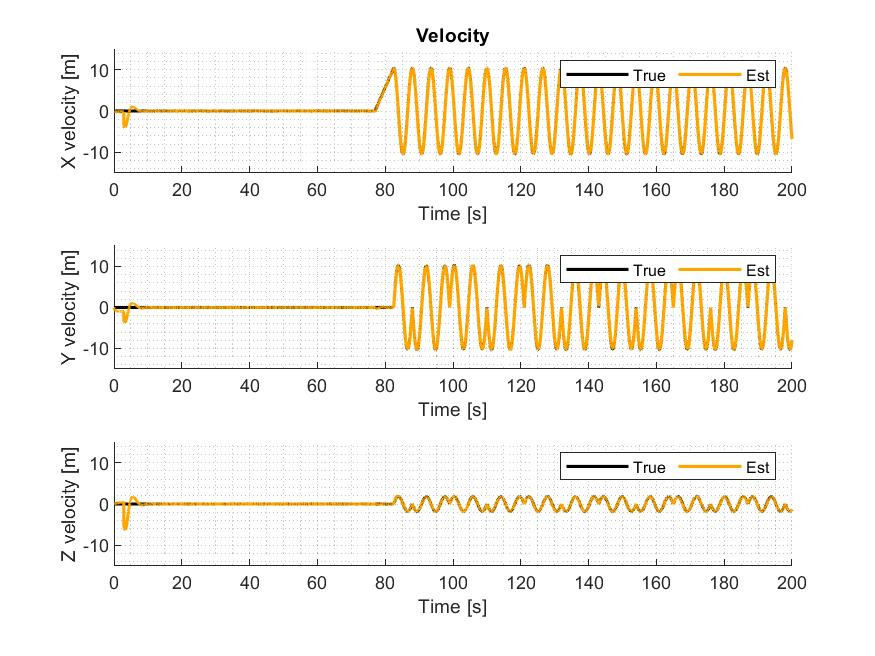
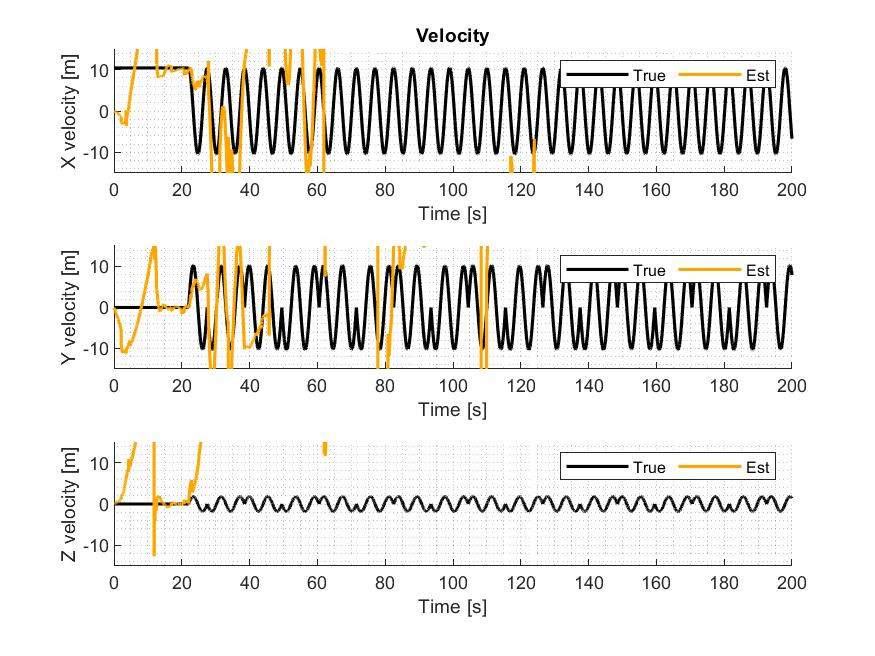
Modified the sim correctly, but the estimation is shit... help

diff --git a/ESKF/MESKF_sola.m b/ESKF/MESKF_sola.m
@@ -69,7 +69,7 @@ C_ins = [I3 Z3 Z3 Z3 Z3
 g_n_hat = g_n_nb;
      
 count = 10;
-race_started = false;
+race_started = true;
 
 for k = 1:N
    t = k * h;
